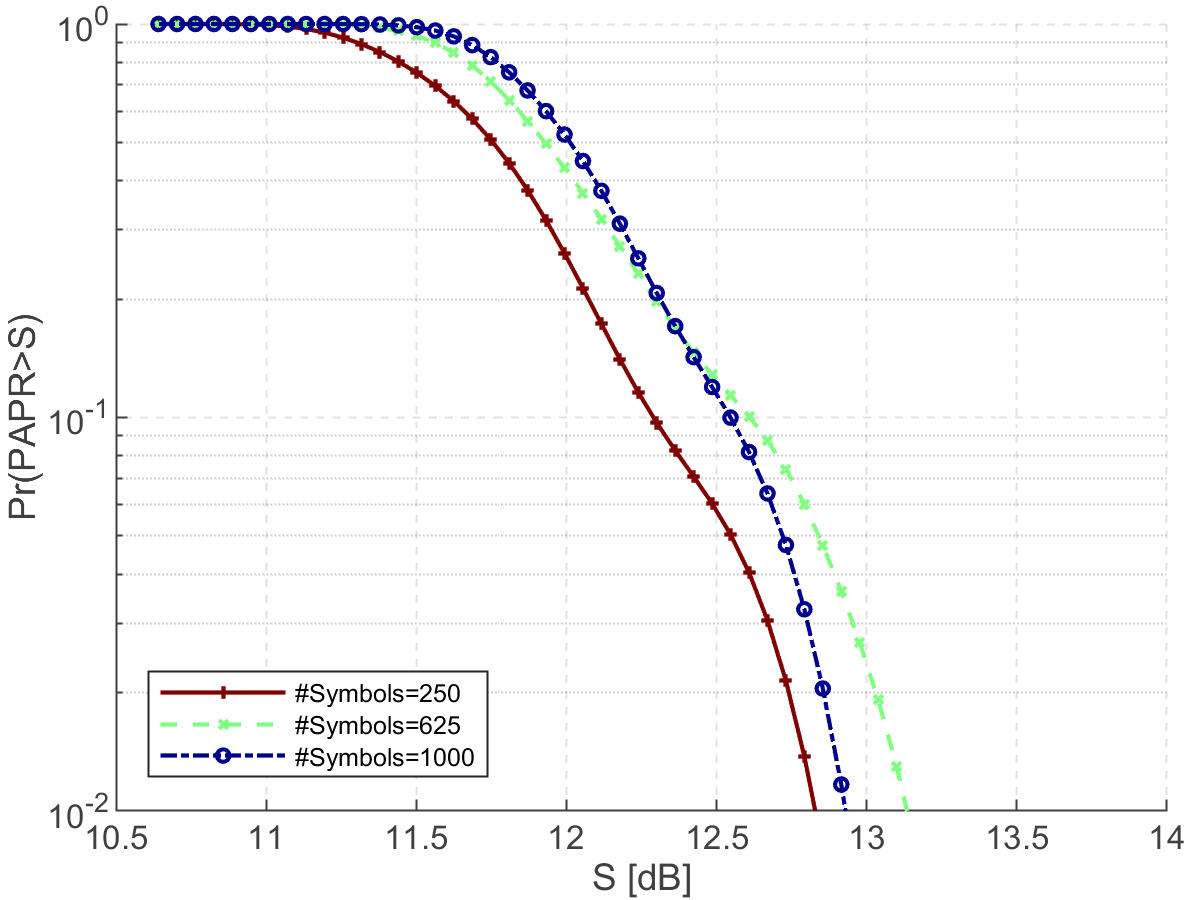
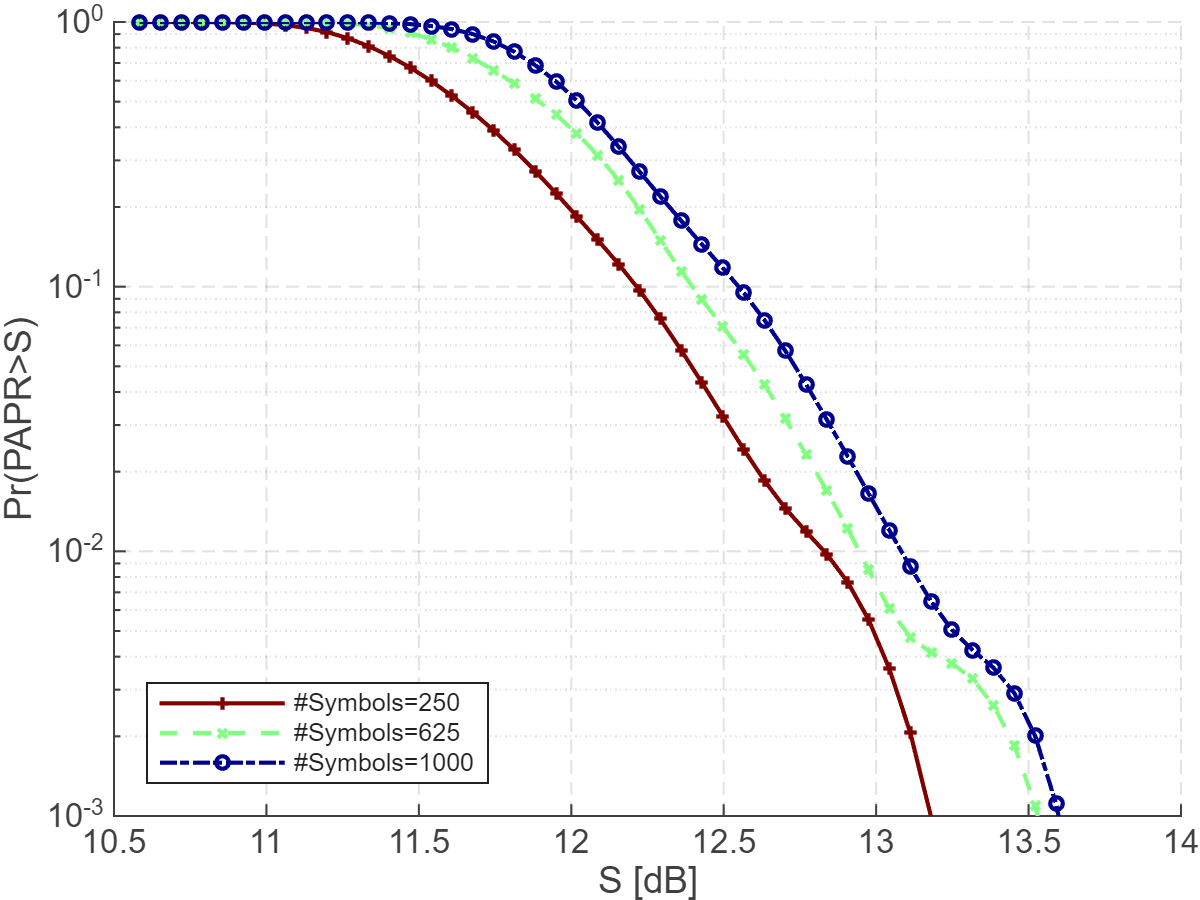
Finished collecting PDF and CCDF for HT and VHT modes.
We added all plot data for these modes, added code for HE and EHT modes. continuing to run simulations

Changed region(s): [[0.0308, 0.0, 1.0, 1.0], [0.0, 0.3422, 0.0617, 0.5911], [0.0308, 0.3111, 0.0617, 0.3422]]

diff --git a/Code/WiFi/pa_wifi_ht.m b/Code/WiFi/pa_wifi_ht.m
@@ -245,7 +245,8 @@ if runStats || runAll
         psduBitsChunk = randi([0 1], psduTotalOctets*8*nThis, 1);
 
         txChunk = wlanWaveformGenerator(psduBitsChunk, cfgHT, 'NumPackets', nThis, ...
-                            'IdleTime', idleTime*1e-6, 'OversamplingFactor', osf);
+                            'IdleTime', idleTime*1e-6, 'OversamplingFactor', osf, ...
+                            'WindowTransitionTime', 0);
 
         % max() of a complex vector returns the largest-MAGNITUDE element,
         % which is itself complex, so dividing by it rotated the whole chunk
@@ -321,13 +322,13 @@ end
 
 if runCdf || runAll
     bins = 50;
-    MCS = env_num('PAPR_MCS', 0);
+    MCS = env_num('PAPR_MCS', 7);
     BW  = env_num('PAPR_BW', 40);
     numPackets = 5; % <--- Optimizing to 1 packet per trial significantly reduces overhead
     [measureDataFieldOnly, modeTag] = papr_measure_mode(true);
     kernelBw = []; % [] => Silverman's rule from the pooled samples
     targetSymbols = [250 525 1362];
-    list = [10000, 15000, 25000]; % <--- Increase trials here for higher statistical confidence
+    list = [500, 500, 500]; % <--- Increase trials here for higher statistical confidence
     trialOverride = str2double(getenv('PAPR_TRIALS'));
     if isfinite(trialOverride) && trialOverride > 0
         list = repmat(round(trialOverride), size(targetSymbols));

diff --git a/Code/WiFi/pa_wifi_vht.m b/Code/WiFi/pa_wifi_vht.m
@@ -327,7 +327,7 @@ end
 
 if runCdf || runAll
     bins = 50;
-    MCS = env_num('PAPR_MCS', 5);
+    MCS = env_num('PAPR_MCS', 9);
     BW  = env_num('PAPR_BW', 160);
     numPackets = 8;
     statsOSF = 4;
@@ -472,7 +472,10 @@ if runGen == 1
     chanBW = ['CBW' num2str(BW)];        
     mcs_value = 9;           % Target MCS
     target_mbytes = 8;       % Target memory size: 4, 8, or 16 MB
-    bytes_per_sample = 4;    % 8 for float32 (IQ), 4 for int16 (IQ)
+    % 8 bytes per complex sample: the export below writes float32 I and
+    % float32 Q via fwrite(...,'single'). Using 4 here made every file
+    % twice the size its name claims.
+    bytes_per_sample = 8;
     osf = 4;                 % Oversampling factor used in your previous runs
     numTX = 1;               % Number of TX Antennas
 

diff --git a/Code/WiFi/pa_wifi_eht.m b/Code/WiFi/pa_wifi_eht.m
@@ -316,7 +316,10 @@ if runGen || runAll
     mcs_value = env_num('PAPR_MCS', 7);
     BW = env_num('PAPR_BW', 320);
     target_mbytes = 8;       % Target memory size: 4, 8, or 16 MB
-    bytes_per_sample = 4;    % 4 for int16 IQ, 8 for float32 IQ
+    % 8 bytes per complex sample: the export below writes float32 I and
+    % float32 Q via fwrite(...,'single'). Using 4 here made every file
+    % twice the size its name claims.
+    bytes_per_sample = 8;
     tolerance_db = 0.05;
     max_attempts = 2000;
     targetSymbols = min(env_num('PAPR_GEN_SYMBOLS', 300), MAX_EHT_SYMBOLS);

diff --git a/Code/WiFi/pa_wifi_he.m b/Code/WiFi/pa_wifi_he.m
@@ -308,7 +308,10 @@ if runGen || runAll
     mcs_value = env_num('PAPR_MCS', 7);
     BW = env_num('PAPR_BW', 160);
     target_mbytes = 8;       % Target memory size: 4, 8, or 16 MB
-    bytes_per_sample = 4;    % 4 for int16 IQ, 8 for float32 IQ
+    % 8 bytes per complex sample: the export below writes float32 I and
+    % float32 Q via fwrite(...,'single'). Using 4 here made every file
+    % twice the size its name claims.
+    bytes_per_sample = 8;
     tolerance_db = 0.05;
     max_attempts = 2000;
     targetSymbols = min(env_num('PAPR_GEN_SYMBOLS', 300), MAX_HE_SYMBOLS);
